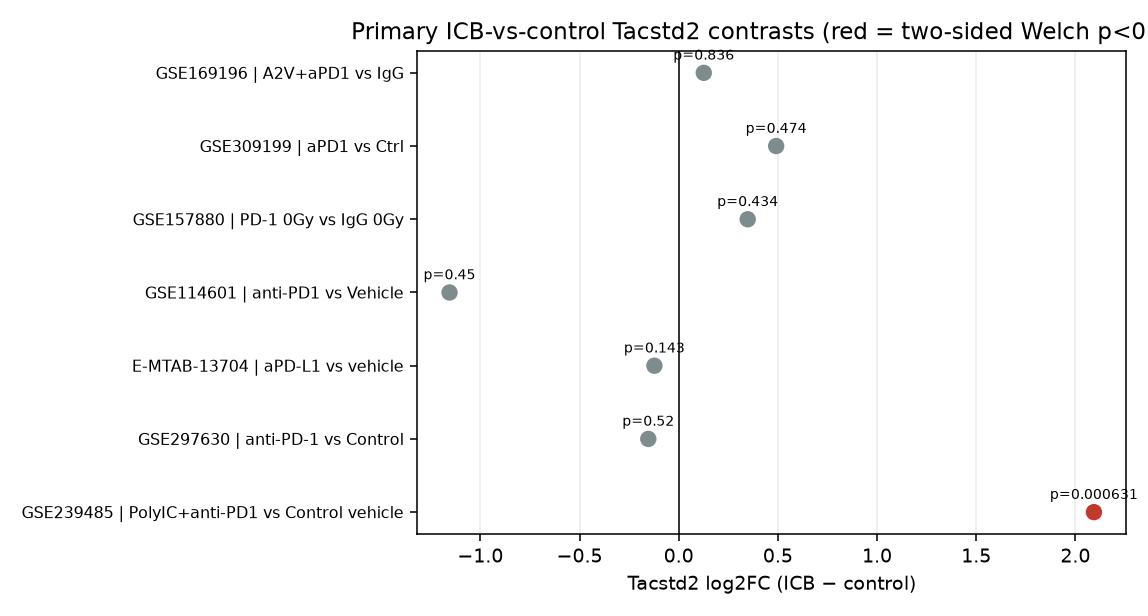
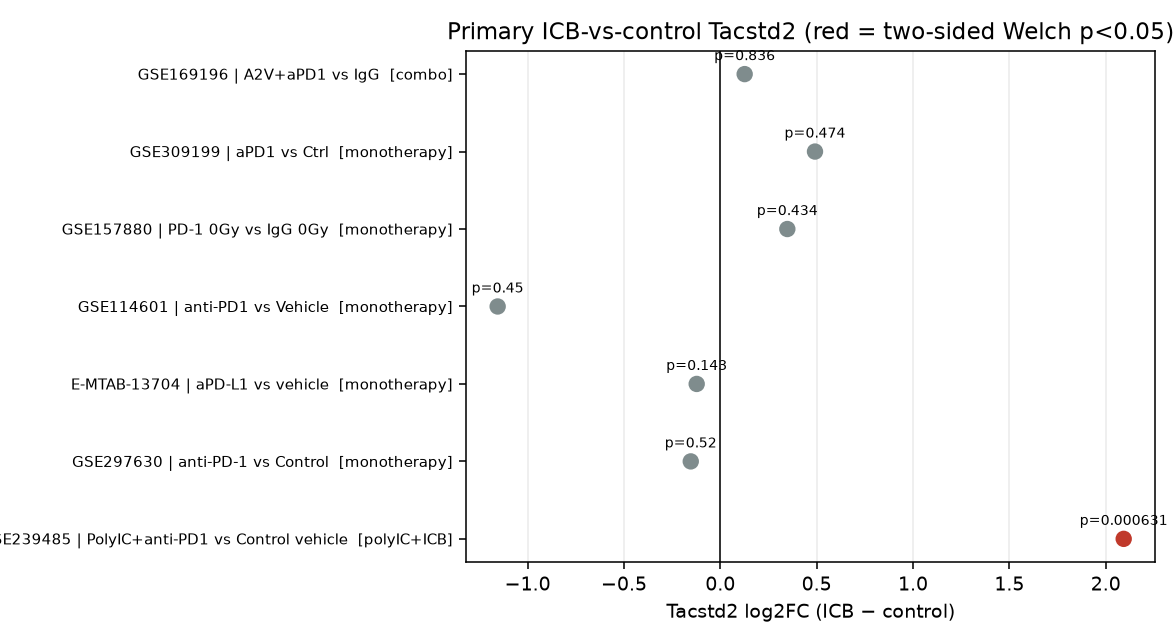
Add sensitivity tests, Cldn4 combined stats, and new-dataset figures
Monotherapy-only Tacstd2 is 2/5 up (sign p=0.81); dropping PolyIC GSE239485
removes the only significant up call. Cldn4 is 6/7 down (down-sign p=0.062).
GSE157880 4 Gy Tacstd2 rise is radiation-confounded. TISMO APIs still 404.

diff --git a/scripts/fable_mouse_ici/sensitivity_and_figures.py b/scripts/fable_mouse_ici/sensitivity_and_figures.py
@@ -1,0 +1,207 @@
+#!/usr/bin/env python3
+"""Sensitivity combined tests + per-dataset figures for the hunt extension.
+
+Reads already-computed tables (no re-download). Writes:
+  results/fable_mouse_ici/sensitivity_combined.json
+  results/fable_mouse_ici/primary_icb_cldn4.csv
+  results/fable_mouse_ici/figures/GSE114601|157880|309199|169196_tacstd2_cldn4.png
+  results/fable_mouse_ici/figures/sensitivity_tacstd2.png
+"""
+import json
+from pathlib import Path
+
+import matplotlib
+matplotlib.use("Agg")
+import matplotlib.pyplot as plt
+import numpy as np
+import pandas as pd
+from scipy import stats
+
+RESULTS = Path(__file__).resolve().parents[2] / "results" / "fable_mouse_ici"
+FIG = RESULTS / "figures"
+FIG.mkdir(parents=True, exist_ok=True)
+
+PRIMARY = [
+    ("GSE239485", "PolyIC+anti-PD1 vs Control vehicle", "polyIC+ICB"),
+    ("GSE297630", "anti-PD-1 vs Control", "monotherapy"),
+    ("E-MTAB-13704", "aPD-L1 vs vehicle", "monotherapy"),
+    ("GSE114601", "anti-PD1 vs Vehicle", "monotherapy"),
+    ("GSE157880", "PD-1 0Gy vs IgG 0Gy", "monotherapy"),
+    ("GSE309199", "aPD1 vs Ctrl", "monotherapy"),
+    ("GSE169196", "A2V+aPD1 vs IgG", "combo"),
+]
+
+
+def stouffer(p_up):
+    p = np.clip(np.asarray(p_up, float), 1e-15, 1 - 1e-15)
+    z = stats.norm.isf(p)
+    zc = float(z.sum() / np.sqrt(len(z)))
+    return zc, float(stats.norm.sf(zc))
+
+
+def summarise(df, label):
+    n = len(df)
+    n_up = int((df.log2FC > 0).sum())
+    sign_p = float(stats.binomtest(n_up, n, 0.5, alternative="greater").pvalue) if n else np.nan
+    with_p = df.dropna(subset=["welch_p_up"])
+    if len(with_p):
+        zc, pz = stouffer(with_p.welch_p_up.to_numpy())
+    else:
+        zc, pz = np.nan, np.nan
+    return dict(
+        set=label, n=n, n_up=n_up, n_down=n - n_up,
+        sign_test_p_greater=sign_p, stouffer_Z=zc, stouffer_p_up=pz,
+        datasets=", ".join(df.dataset.tolist()),
+    )
+
+
+def pick(stats_df, gene):
+    rows = []
+    for ds, comp, kind in PRIMARY:
+        hit = stats_df[(stats_df.dataset == ds) & (stats_df.gene == gene)
+                       & (stats_df.comparison == comp)]
+        if hit.empty:
+            continue
+        rec = hit.iloc[0].to_dict()
+        rec["kind"] = kind
+        rows.append(rec)
+    return pd.DataFrame(rows)
+
+
+def plot_gene_primary(df, gene, out):
+    fig, ax = plt.subplots(figsize=(8.4, 4.6))
+    y = np.arange(len(df))
+    colors = ["#c0392b" if (pd.notna(p) and p < 0.05) else "#7f8c8d"
+              for p in df.welch_p_two]
+    ax.axvline(0, color="k", lw=0.8)
+    ax.scatter(df.log2FC, y, c=colors, s=55, zorder=3)
+    for yi, (_, r) in enumerate(df.iterrows()):
+        lab = f"p={r.welch_p_two:.3g}" if pd.notna(r.welch_p_two) else ""
+        ax.text(r.log2FC, yi + 0.18, lab, fontsize=7, ha="center")
+    ax.set_yticks(y)
+    ax.set_yticklabels([f"{r.dataset} | {r.comparison}  [{r.kind}]"
+                        for _, r in df.iterrows()], fontsize=7.5)
+    ax.set_xlabel(f"{gene} log2FC (ICB − control)")
+    ax.set_title(f"Primary ICB-vs-control {gene} (red = two-sided Welch p<0.05)")
+    ax.grid(axis="x", alpha=0.25)
+    fig.tight_layout()
+    fig.savefig(out, dpi=140)
+    plt.close(fig)
+
+
+def plot_dataset(long_df, ds):
+    dsub = long_df[(long_df.dataset == ds) & (long_df.gene.isin(["Tacstd2", "Cldn4"]))]
+    if dsub.empty:
+        return
+    groups = list(dict.fromkeys(dsub.group))
+    ctrl = dsub.loc[dsub.is_control, "group"]
+    if len(ctrl):
+        c = ctrl.iloc[0]
+        if c in groups:
+            groups.remove(c)
+            groups = [c] + groups
+    fig, axes = plt.subplots(1, 2, figsize=(max(7, 1.15 * len(groups) * 2), 4.1))
+    vt = dsub.value_type.iloc[0]
+    for ax, gene in zip(axes, ["Tacstd2", "Cldn4"]):
+        g = dsub[dsub.gene == gene]
+        for i, grp in enumerate(groups):
+            vals = g.loc[g.group == grp, "value_log2"].to_numpy()
+            if len(vals) > 1:
+                ax.boxplot(vals, positions=[i], widths=0.55, showfliers=False,
+                           patch_artist=True,
+                           boxprops=dict(facecolor="#cfe3f2", alpha=0.8),
+                           medianprops=dict(color="#08519c"))
+            jitter = (np.random.RandomState(i + 3).rand(len(vals)) - 0.5) * 0.18
+            ax.scatter(np.full(len(vals), i) + jitter, vals, s=26,
+                       color="#c0392b", zorder=3, edgecolor="white", lw=0.4)
+        ax.set_xticks(range(len(groups)))
+        ax.set_xticklabels(groups, rotation=28, ha="right", fontsize=8)
+        ax.set_title(gene, fontsize=11)
+        ax.set_ylabel(f"expression ({vt})", fontsize=8)
+        ax.grid(axis="y", alpha=0.25)
+    fig.suptitle(f"{ds}  —  Tacstd2 / Cldn4 by treatment", fontsize=12)
+    fig.tight_layout(rect=[0, 0, 1, 0.96])
+    fig.savefig(FIG / f"{ds}_tacstd2_cldn4.png", dpi=130)
+    plt.close(fig)
+
+
+def main():
+    ext = pd.read_csv(RESULTS / "extended_stats.csv")
+    old = pd.read_csv(RESULTS / "stats_results.csv")
+    # unify
+    old = old.rename(columns={
+        "log2FC_treat_minus_control": "log2FC",
+        "welch_p": "welch_p_two",
+        "welch_t_stat": "welch_t",
+    })
+    if "welch_p_up" not in old.columns:
+        df_approx = old["n_control"] + old["n_treat"] - 2
+        old["welch_p_up"] = [
+            float(stats.t.sf(t, d)) if pd.notna(t) else np.nan
+            for t, d in zip(old["welch_t"], df_approx)
+        ]
+    keep = ["dataset", "gene", "comparison", "n_control", "n_treat",
+            "mean_control", "mean_treat", "log2FC", "welch_t",
+            "welch_p_two", "welch_p_up", "mwu_p"]
+    stats_df = pd.concat([ext[keep], old[keep]], ignore_index=True)
+    stats_df = stats_df.drop_duplicates(["dataset", "gene", "comparison"], keep="first")
+
+    tac = pick(stats_df, "Tacstd2")
+    cld = pick(stats_df, "Cldn4")
+    tac.to_csv(RESULTS / "primary_icb_tacstd2.csv", index=False)
+    cld.to_csv(RESULTS / "primary_icb_cldn4.csv", index=False)
+
+    sets = {
+        "all_7_primary": tac,
+        "monotherapy_only": tac[tac.kind == "monotherapy"],
+        "exclude_polyIC_GSE239485": tac[tac.dataset != "GSE239485"],
+        "monotherapy_n_ge_3": tac[(tac.kind == "monotherapy")
+                                  & (tac.n_control + tac.n_treat >= 6)],
+    }
+    summary = {k: summarise(v, k) for k, v in sets.items()}
+    summary["cldn4_all_7_primary"] = summarise(cld, "cldn4_all_7_primary")
+    summary["notes"] = {
+        "GSE239485": "Poly I:C + anti-PD-1 (Poly I:C confounder); only well-powered UP",
+        "GSE169196": "A2V+aPD1 combo; no aPD1-monotherapy total-tumour arm",
+        "GSE157880_4Gy": ("PD-1 4Gy vs IgG 0Gy Tacstd2 +1.42 p=0.003 is radiation-"
+                          "confounded: IgG 4Gy vs IgG 0Gy is +1.78 p=0.013. "
+                          "Primary contrast correctly uses the 0 Gy pair."),
+        "TISMO": ("49/64 p=5.8e-5 remains an external all-cancer prior; "
+                  "expression matrix not independently re-downloadable."),
+    }
+    (RESULTS / "sensitivity_combined.json").write_text(json.dumps(summary, indent=2))
+    print(json.dumps(summary, indent=2))
+
+    plot_gene_primary(tac, "Tacstd2", FIG / "primary_icb_tacstd2.png")
+    plot_gene_primary(cld, "Cldn4", FIG / "primary_icb_cldn4.png")
+
+    # sensitivity forest: all-7 vs monotherapy
+    fig, axes = plt.subplots(1, 2, figsize=(12.5, 4.4))
+    for ax, (title, sub) in zip(axes, [
+        ("All 7 primary (incl. PolyIC / combo)", tac),
+        ("Monotherapy only (n=5)", tac[tac.kind == "monotherapy"]),
+    ]):
+        sub = sub.reset_index(drop=True)
+        y = np.arange(len(sub))
+        colors = ["#c0392b" if (pd.notna(p) and p < 0.05) else "#7f8c8d"
+                  for p in sub.welch_p_two]
+        ax.axvline(0, color="k", lw=0.8)
+        ax.scatter(sub.log2FC, y, c=colors, s=50, zorder=3)
+        for yi, (_, r) in enumerate(sub.iterrows()):
+            ax.text(r.log2FC, yi + 0.18, f"p={r.welch_p_two:.3g}", fontsize=7, ha="center")
+        ax.set_yticks(y)
+        ax.set_yticklabels([f"{r.dataset}" for _, r in sub.iterrows()], fontsize=8)
+        ax.set_xlabel("Tacstd2 log2FC (ICB − control)")
+        ax.set_title(title, fontsize=10)
+        ax.grid(axis="x", alpha=0.25)
+    fig.tight_layout()
+    fig.savefig(FIG / "sensitivity_tacstd2.png", dpi=140)
+    plt.close(fig)
+
+    long_df = pd.read_csv(RESULTS / "extended_per_sample.csv")
+    for ds in ["GSE114601", "GSE157880", "GSE309199", "GSE169196"]:
+        plot_dataset(long_df, ds)
+
+
+if __name__ == "__main__":
+    main()

diff --git a/results/fable_mouse_ici/WRITEUP.md b/results/fable_mouse_ici/WRITEUP.md
@@ -125,6 +125,23 @@ Pre-specified set (n=7): GSE239485 PolyIC+aPD1; GSE297630 aPD1; E-MTAB-13704 aPD
 
 So: **GSE239485-style Tacstd2 rise on IO is consistent with that one well-powered LLC experiment**, but **this public mouse-lung slice does not reproduce a TISMO-like 49/64 consensus**. Anti-PD-1/PD-L1 monotherapy in GEMM/SCLC/LLC-array data is mixed and under-powered. Tables: [`primary_icb_tacstd2.csv`](primary_icb_tacstd2.csv), [`combined_icb_tacstd2.json`](combined_icb_tacstd2.json), figure [`figures/primary_icb_tacstd2.png`](figures/primary_icb_tacstd2.png).
 
+### Sensitivity (same primary table, pre-specified subsets)
+
+| Set | n | Tacstd2 up | Sign p (up) | Stouffer p (up) |
+|---|---|---|---|---|
+| All 7 primary | 7 | 4 | 0.50 | 0.20 |
+| Drop GSE239485 (Poly I:C confounder) | 6 | 3 | 0.66 | 0.68 |
+| **Monotherapy only** | 5 | **2** | **0.81** | **0.73** |
+| Monotherapy with n≥3/arm | 3 | 1 | 0.88 | 0.79 |
+
+Dropping the Poly I:C experiment **removes the only significant Tacstd2-up call**. Monotherapy alone is 2 up / 3 down. [`sensitivity_combined.json`](sensitivity_combined.json), [`figures/sensitivity_tacstd2.png`](figures/sensitivity_tacstd2.png).
+
+**Radiation caveat (GSE157880):** PD-1 + 4 Gy vs IgG 0 Gy looks like Tacstd2 up (+1.42, p=0.003), but IgG + 4 Gy vs IgG 0 Gy is also up (+1.78, p=0.013). That rise is **radiation, not ICB**. The primary contrast correctly uses the 0 Gy pair.
+
+**Cldn4 on the same 7 primary contrasts:** 6 / 7 down; up-direction sign p=0.99; down-direction sign p=**0.062** (trend, not <0.05). Only GSE297630 is individually significant. [`primary_icb_cldn4.csv`](primary_icb_cldn4.csv), [`figures/primary_icb_cldn4.png`](figures/primary_icb_cldn4.png).
+
+TISMO download was retried (current SPA + `/tismo` `/rtismo` `/datadownload` APIs all 404; GitHub has scripts only). **49/64 was not recomputed.**
+
 ### TROP2-high / immune-low
 Immune score = mean log-expression of Cd8a, Cd3e, Cd3d, Gzmb, Prf1, Ifng, Cd274, Pdcd1, Cxcl9, Cxcl10, Nkg7 (whichever present).
 
@@ -152,6 +169,8 @@ TISMO 的 49/64、p=5.8e-5 作为**外部（全癌种）先验**引用；当前 
 Tacstd2 升高 **4/7**；符号检验 p=**0.50**；Stouffer（单侧上调）Z=0.85，p=**0.20**。主对比里唯一双侧显著的是 GSE239485（+2.09，p=6.3e-4）。
 
 结论：**GSE239485 式的 IO 后 Tacstd2 升高在该实验中成立**，但**本公开小鼠肺切片不能复现 TISMO 式的 49/64 共识**；单药 anti-PD-1/PD-L1 方向混杂且功效不足。
+
+敏感性：去掉 GSE239485（Poly I:C 混杂）后 3/6 升高（符号 p=0.66，Stouffer p=0.68）；**仅单药**为 2/5 升高（p=0.81 / 0.73）。GSE157880 的 4 Gy 升高是放疗而非 ICB（IgG 4 Gy 同样升高）。同一 7 个主对比上 Cldn4 为 6/7 下降（下降方向符号 p=0.062，趋势未过 0.05）。TISMO 接口仍 404，49/64 **未重算**。
 
 ### TROP2 高 / 免疫低
 免疫评分 = Cd8a/Cd3e/Cd3d/Gzmb/Prf1/Ifng/Cd274/Pdcd1/Cxcl9/Cxcl10/Nkg7 的均值。GSE239485 与 E-MTAB 的 Spearman 为**显著正相关**（治疗同时抬高两者）；对照子集与其余数据集为弱负或近零、均不显著。**这些 bulk 肺矩阵中没有稳健的 TROP2-high / immune-low 亚群证据。**

diff --git a/notes/fable_mouse_ici/hunt_triage.md b/notes/fable_mouse_ici/hunt_triage.md
@@ -19,3 +19,9 @@ Queried NCBI GEO for mouse lung + anti-PD-1/PD-L1 RNA series. Processed files <2
 - GSE194166: scRNA/TCR, 238 MB, n=1/arm
 - GSE129298: scRNA n=1/arm (companion of already-included GSE129297)
 - GSE157883: parent SuperSeries of GSE157880 (used the processed Bulk048)
+
+## TISMO re-try (2026-08-16, second pass)
+Probed `https://tismo.pku-genomics.org/` (SPA), frontend routes `/datadownload` `/gene` `/internaldata`, and backends `/tismo` `/rtismo` — all API paths returned 404. GitHub `zexian/TISMO_data` is processing scripts only. **49/64 Tacstd2-up after ICB was not independently recomputed.**
+
+## Radiation confounder (keep 0 Gy as primary)
+GSE157880 Tacstd2 PD-1 4Gy vs IgG 0Gy = +1.42 (p=0.003) but IgG 4Gy vs IgG 0Gy = +1.78 (p=0.013). Rise is radiation, not ICB.
